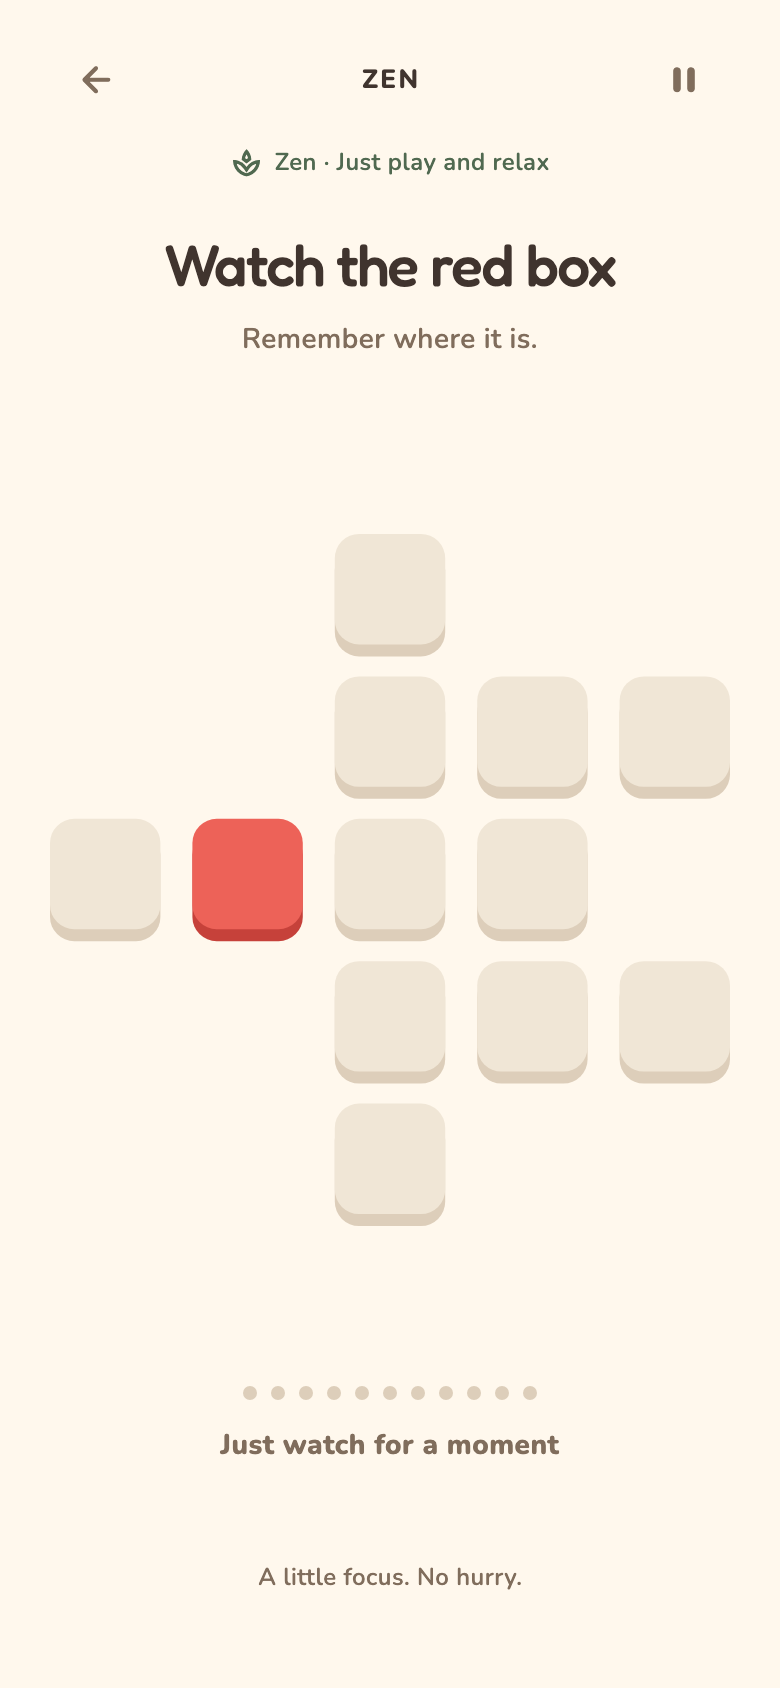
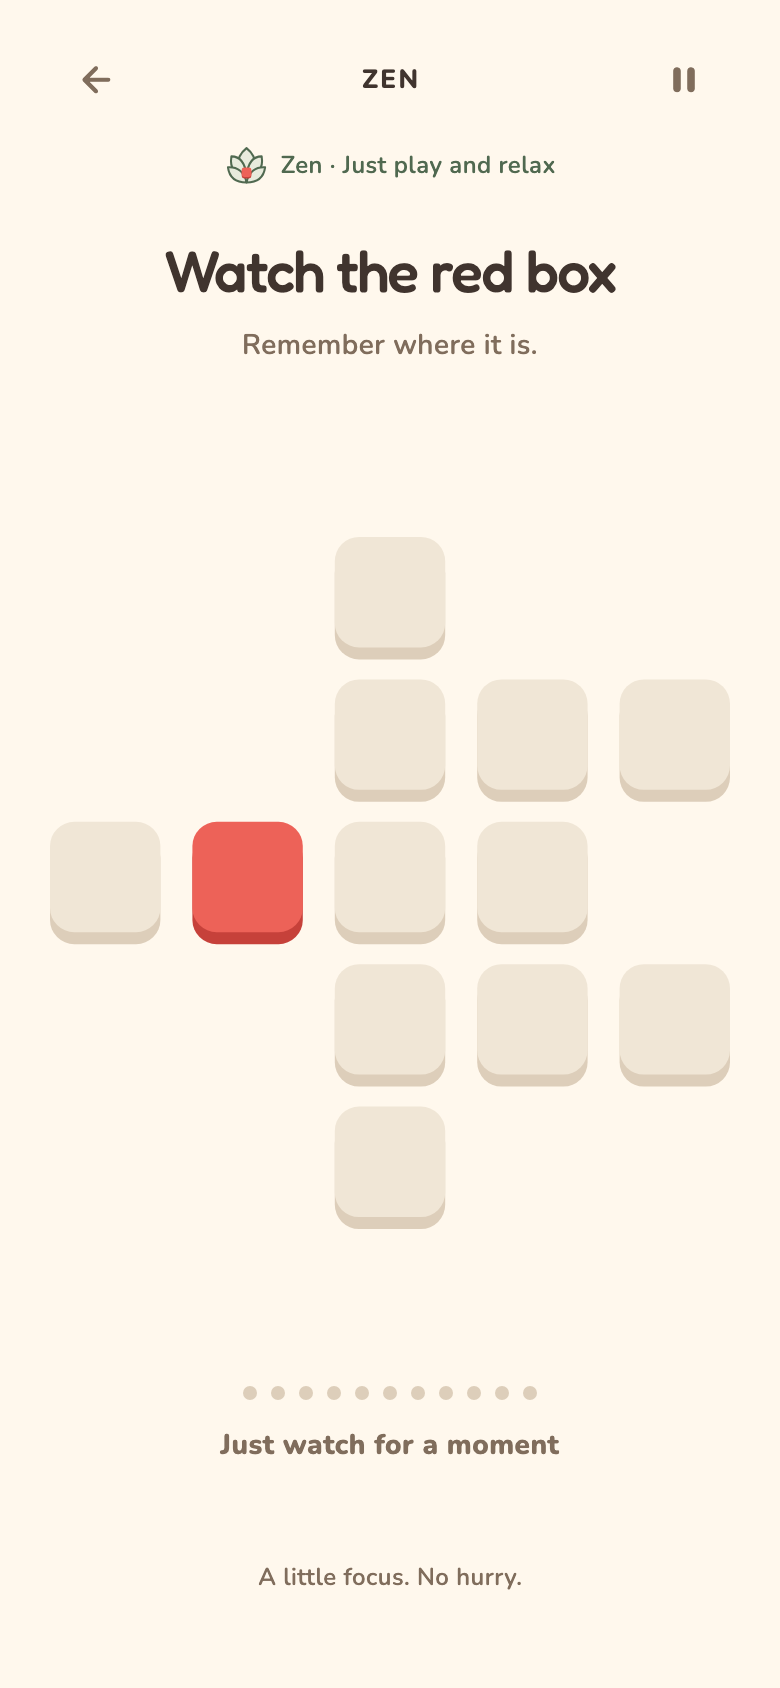
Brand the Zen mode action with a custom lotus mark

diff --git a/lib/ui/game_page.dart b/lib/ui/game_page.dart
@@ -11,6 +11,7 @@ import '../game/round.dart';
 import 'pocket_theme.dart';
 import 'help_and_settings.dart';
 import 'pocket_widgets.dart';
+import 'zen_mark.dart';
 
 class GamePage extends StatefulWidget {
   const GamePage({
@@ -181,7 +182,7 @@ class _GamePageState extends State<GamePage>
                   Navigator.pop(sheetContext);
                   _nextBoard();
                 },
-                icon: const Icon(Icons.spa_outlined),
+                icon: const ZenMark(size: 22),
                 label: const Text('New board'),
               ),
             const SizedBox(height: 13),
@@ -331,11 +332,7 @@ class _GamePageState extends State<GamePage>
               mainAxisSize: MainAxisSize.min,
               children: [
                 if (_mode == PlayMode.zen) ...[
-                  const Icon(
-                    Icons.spa_outlined,
-                    size: 16,
-                    color: PocketColors.zenInk,
-                  ),
+                  const ZenMark(size: 22),
                   const SizedBox(width: 6),
                 ],
                 Flexible(
@@ -615,13 +612,15 @@ class _GamePageState extends State<GamePage>
                             icon: const Icon(Icons.pause_rounded),
                           ),
                           if (!large)
-                            Text(
-                              _mode == PlayMode.zen
-                                  ? 'Zen'
-                                  : '${_game.round.level}',
-                              textAlign: TextAlign.center,
-                              style: PocketType.body.copyWith(fontSize: 12),
-                            ),
+                            _mode == PlayMode.zen
+                                ? const ZenMark(size: 24)
+                                : Text(
+                                    '${_game.round.level}',
+                                    textAlign: TextAlign.center,
+                                    style: PocketType.body.copyWith(
+                                      fontSize: 12,
+                                    ),
+                                  ),
                           Expanded(child: Center(child: info)),
                           if (result)
                             action(iconOnly: true)
@@ -658,15 +657,24 @@ class _GamePageState extends State<GamePage>
                             mainAxisAlignment: MainAxisAlignment.center,
                             children: [
                               if (!large)
-                                Text(
-                                  label.toUpperCase(),
-                                  style: PocketType.body.copyWith(
-                                    fontSize: 11,
-                                    letterSpacing: 1,
-                                  ),
+                                Row(
+                                  mainAxisSize: MainAxisSize.min,
+                                  children: [
+                                    if (_mode == PlayMode.zen) ...[
+                                      const ZenMark(size: 18),
+                                      const SizedBox(width: 5),
+                                    ],
+                                    Flexible(
+                                      child: Text(
+                                        label.toUpperCase(),
+                                        style: PocketType.body.copyWith(
+                                          fontSize: 11,
+                                          letterSpacing: 1,
+                                        ),
+                                      ),
+                                    ),
+                                  ],
                                 ),
-                              if (_mode == PlayMode.zen && !large)
-                                const SizedBox.shrink(),
                               Flexible(child: info),
                             ],
                           ),

diff --git a/lib/ui/zen_mark.dart b/lib/ui/zen_mark.dart
@@ -1,0 +1,95 @@
+import 'package:flutter/material.dart';
+
+import 'pocket_theme.dart';
+
+/// Red Box's Zen mark: five soft petals shelter a tiny coral square.
+/// Kept as vector geometry so the mark stays crisp at every device scale.
+class ZenMark extends StatelessWidget {
+  const ZenMark({super.key, this.size = 24});
+  final double size;
+
+  @override
+  Widget build(BuildContext context) => ExcludeSemantics(
+    child: SizedBox.square(
+      dimension: size,
+      child: const CustomPaint(painter: _ZenMarkPainter()),
+    ),
+  );
+}
+
+class _ZenMarkPainter extends CustomPainter {
+  const _ZenMarkPainter();
+
+  @override
+  void paint(Canvas canvas, Size size) {
+    canvas.save();
+    canvas.scale(size.width / 32, size.height / 32);
+    final fill = Paint()..color = PocketColors.zenSurface;
+    final outline = Paint()
+      ..color = PocketColors.zenInk
+      ..style = PaintingStyle.stroke
+      ..strokeWidth = 1.5
+      ..strokeCap = StrokeCap.round
+      ..strokeJoin = StrokeJoin.round;
+    void petal(Path path) {
+      canvas.drawPath(path, fill);
+      canvas.drawPath(path, outline);
+    }
+
+    petal(
+      Path()
+        ..moveTo(16, 3)
+        ..cubicTo(11, 7, 9.5, 11, 10.5, 15)
+        ..cubicTo(11.1, 18, 13.2, 20.6, 16, 22)
+        ..cubicTo(18.8, 20.6, 20.9, 18, 21.5, 15)
+        ..cubicTo(22.5, 11, 21, 7, 16, 3)
+        ..close(),
+    );
+    petal(
+      Path()
+        ..moveTo(5, 9)
+        ..cubicTo(11, 9, 15, 14, 16, 23)
+        ..cubicTo(8, 23, 3.5, 18, 5, 9)
+        ..close(),
+    );
+    petal(
+      Path()
+        ..moveTo(27, 9)
+        ..cubicTo(21, 9, 17, 14, 16, 23)
+        ..cubicTo(24, 23, 28.5, 18, 27, 9)
+        ..close(),
+    );
+    petal(
+      Path()
+        ..moveTo(2.5, 17)
+        ..cubicTo(9, 16.5, 14.5, 20, 16, 28)
+        ..cubicTo(8, 28, 3.5, 24.5, 2.5, 17)
+        ..close(),
+    );
+    petal(
+      Path()
+        ..moveTo(29.5, 17)
+        ..cubicTo(23, 16.5, 17.5, 20, 16, 28)
+        ..cubicTo(24, 28, 28.5, 24.5, 29.5, 17)
+        ..close(),
+    );
+    canvas.drawRRect(
+      RRect.fromRectAndRadius(
+        const Rect.fromLTWH(12.5, 18, 7, 7),
+        const Radius.circular(1.8),
+      ),
+      Paint()..color = PocketColors.redDepth,
+    );
+    canvas.drawRRect(
+      RRect.fromRectAndRadius(
+        const Rect.fromLTWH(12.5, 17, 7, 7),
+        const Radius.circular(1.8),
+      ),
+      Paint()..color = PocketColors.red,
+    );
+    canvas.restore();
+  }
+
+  @override
+  bool shouldRepaint(_ZenMarkPainter oldDelegate) => false;
+}

diff --git a/tools/capture_progression_test.dart b/tools/capture_progression_test.dart
@@ -12,6 +12,7 @@ import 'package:redbox/core/settings.dart';
 import 'package:redbox/game/round.dart';
 import 'package:redbox/ui/game_page.dart';
 import 'package:redbox/ui/pocket_widgets.dart';
+import 'package:redbox/ui/zen_mark.dart';
 
 import 'capture_screenshots_test.dart' as capture;
 
@@ -31,6 +32,29 @@ void main() {
     await (FontLoader(
       'MaterialIcons',
     )..addFont(rootBundle.load('fonts/MaterialIcons-Regular.otf'))).load();
+    final markFrame = GlobalKey();
+    await t.pumpWidget(
+      Directionality(
+        textDirection: TextDirection.ltr,
+        child: Center(
+          child: RepaintBoundary(
+            key: markFrame,
+            child: const ZenMark(size: 256),
+          ),
+        ),
+      ),
+    );
+    await t.pump();
+    final markBoundary =
+        markFrame.currentContext!.findRenderObject() as RenderRepaintBoundary;
+    await t.runAsync(() async {
+      final image = await markBoundary.toImage(pixelRatio: 2);
+      final bytes = await image.toByteData(format: ui.ImageByteFormat.png);
+      await File('design/zen-mode.png')
+          .writeAsBytes(bytes!.buffer.asUint8List());
+      image.dispose();
+    });
+    await t.pumpWidget(const SizedBox());
     final settings = AppSettings(store: MemorySettingsStore())
       ..haptics = false
       ..reducedMotion = true;

diff --git a/lib/ui/pocket_widgets.dart b/lib/ui/pocket_widgets.dart
@@ -76,11 +76,13 @@ class PocketButton extends StatefulWidget {
     required this.label,
     required this.onPressed,
     this.icon,
+    this.leading,
     this.secondary = false,
   });
   final String label;
   final VoidCallback? onPressed;
   final IconData? icon;
+  final Widget? leading;
   final bool secondary;
   @override
   State<PocketButton> createState() => _PocketButtonState();
@@ -144,6 +146,10 @@ class _PocketButtonState extends State<PocketButton> {
                 child: Row(
                   mainAxisAlignment: MainAxisAlignment.center,
                   children: [
+                    if (widget.leading != null) ...[
+                      widget.leading!,
+                      const SizedBox(width: 10),
+                    ],
                     Flexible(
                       child: Text(widget.label, textAlign: TextAlign.center),
                     ),

diff --git a/lib/ui/home_page.dart b/lib/ui/home_page.dart
@@ -12,6 +12,7 @@ import 'help_and_settings.dart';
 import 'levels_page.dart';
 import 'pocket_theme.dart';
 import 'pocket_widgets.dart';
+import 'zen_mark.dart';
 
 class HomePage extends StatelessWidget {
   const HomePage({
@@ -160,8 +161,8 @@ class HomePage extends StatelessWidget {
             const SizedBox(height: 12),
             PocketButton(
               key: const ValueKey('play-zen'),
-              label: 'Play Zen',
-              icon: Icons.spa_outlined,
+              label: 'Zen mode',
+              leading: const ZenMark(size: 28),
               secondary: true,
               onPressed: () => _play(context, PlayMode.zen),
             ),

diff --git a/lib/ui/help_and_settings.dart b/lib/ui/help_and_settings.dart
@@ -33,7 +33,7 @@ Future<void> showHowToPlay(BuildContext context) => showModalBottomSheet<void>(
       const Text(
         'Normal adds more boxes, shorter previews, and visible shuffles. '
         'Follow the boxes that glowed as they move. Zen offers random, easy '
-        'shaped boards, with no levels or shuffles. Choose Play Zen below Continue.',
+        'shaped boards, with no levels or shuffles. Choose Zen mode below Continue.',
         style: PocketType.body,
       ),
       const SizedBox(height: 18),

diff --git a/test/widget_test.dart b/test/widget_test.dart
@@ -111,7 +111,7 @@ void main() {
         t.getRect(find.byKey(const ValueKey('browse-levels'))).top,
         greaterThanOrEqualTo(t.getRect(find.byTooltip('Settings')).bottom),
       );
-      expect(find.text('Play Zen'), findsOneWidget);
+      expect(find.text('Zen mode'), findsOneWidget);
       expect(t.takeException(), isNull);
       await t.pumpWidget(const SizedBox());
       s.dispose();

diff --git a/docs/plans/progression-redesign.md b/docs/plans/progression-redesign.md
@@ -31,11 +31,11 @@ makes those two ladders easy to confuse.
 1. **Normal is the numbered game.** Continue resumes its unlocked level. Its
    remembered-red count rises through the long-term curve. Replaying a level
    keeps its board and rules; the red positions are fresh.
-2. **Zen has no levels.** Play Zen starts an easy random board. Another board
+2. **Zen has no levels.** Zen mode starts an easy random board. Another board
    starts another. No numbered ladder, unlocked levels, chapter labels or saved
    Zen level is shown. There is no Zen on/off setting.
 3. **Home gives both activities direct entry.** Primary Continue (Let's play on
-   a new install), then a secondary lotus action labelled **Play Zen**. Settings
+   a new install), then a secondary lotus action labelled **Zen mode**. Settings
    stays at the upper right; a small **Levels** icon sits directly beneath it.
    Remove the header's Zen icon and the large Levels button below Continue.
 4. **Levels always means Normal levels.** Return to clear numbered buttons with
@@ -54,7 +54,7 @@ Red Box                                      Settings
                   Pocket toy hero
 
                  Continue · Level N
-                 [lotus] Play Zen
+                 [lotus] Zen mode
                     How to play
 ```
 
@@ -165,7 +165,7 @@ quicker reading. The next memory increase is nineteen reds at 1,500.
 
 ## Zen, without a ladder
 
-- Play Zen starts immediately, with an explicit Zen label and lotus.
+- Zen mode starts immediately, with an explicit Zen label and lotus.
 - Choose a fresh, connected 6–16-box silhouette independently each round. Favor
   6–12 boxes; larger silhouettes are occasional tapping treats, not milestones.
 - One red most of the time; occasionally two on boards of ten or more. Cap at
@@ -187,7 +187,7 @@ quicker reading. The next memory increase is nineteen reds at 1,500.
 | Raising reds, speed and shuffle count at the same milestone creates abrupt difficulty jumps. | Separate red-count and swap-count schedules; movement speed has its own spaced milestones. |
 | The earlier 14-tap cap keeps boards small even at four-digit levels. | Allow boards up to 40 and safe taps up to 23; raise red density rather than filling late boards with easy tapping. |
 | Too many sequential swaps turn the game into waiting. | Limit movement to four pairs, rather than growing it alongside every red-count increase. |
-| Zen with levels and a Settings toggle looks like a second campaign. | A direct Play Zen action, no ladder, random independent boards and no mode setting. |
+| Zen with levels and a Settings toggle looks like a second campaign. | A direct Zen mode action, no ladder, random independent boards and no mode setting. |
 | Shape previews crowd an infrequently visited screen and add UI the player did not request. | Numbered level buttons, state icons and useful chapter copy only. |
 
 ## Critique pass 2 — feasibility and edge cases

diff --git a/README.md b/README.md
@@ -36,7 +36,7 @@ Red Box is a warm, tactile memory game with two ways to play: **Normal** builds 
 - **Normal:** a numbered memory challenge, starting with four boxes and one red. Red counts grow to 12 at level 500, 18 at level 1,300 and 20 at level 2,000. Larger boards reach 40 squares. Viewing time follows memory load; visible shuffles begin at 50 and grow to four pairs.
 - **Zen:** random, easy shaped boards with no levels. Enjoy petals, leaves, ribbons, arches and other connected silhouettes—never a plain filled square or rectangle. Remember one red, occasionally two; there are no shuffles or speed increases.
 
-The primary **Continue** action resumes Normal. **Play Zen** sits directly underneath. The **Levels** icon is below Settings and always opens Normal's numbered levels, with no shape previews. Each Normal level keeps its seeded shape while retries choose fresh reds. Zen's **Another board** starts a new random silhouette; **Another look** gently replays a mistaken board.
+The primary **Continue** action resumes Normal. **Zen mode** sits directly underneath. Its custom lotus-and-box mark is available as [SVG](design/zen-mode.svg) and [PNG](design/zen-mode.png). The **Levels** icon is below Settings and always opens Normal's numbered levels, with no shape previews. Each Normal level keeps its seeded shape while retries choose fresh reds. Zen's **Another board** starts a new random silhouette; **Another look** gently replays a mistaken board.
 
 Existing Normal unlocks and audio/comfort preferences survive updates. Old v1/Zen counters are retained only as archived migration data and never promote a casual player into a high Normal level. Reduced motion disables swaps; Extra time extends previews. Neither mode has a countdown while tapping.
 

diff --git a/DESIGN.md b/DESIGN.md
@@ -59,7 +59,7 @@ Bundle original, quiet WAV cues for taps, continuing, completion, and mistakes. 
 
 ## Normal and Zen
 
-Home keeps Normal's primary Continue action, then a secondary **Play Zen** action
+Home keeps Normal's primary Continue action, then a secondary **Zen mode** action
 with a sage lotus. Settings stays at the upper right; a Levels icon sits directly
 below it. There is no header Zen shortcut, mode selector or Zen Settings toggle.
 Levels is a Normal-only numbered browser without shape previews or per-cell
@@ -88,3 +88,14 @@ identities in the new fitted variant. Reduced motion disables shuffles.
 
 Maintain separate Normal progression and temporary Zen sessions. Keep saved
 Normal unlocks and comfort preferences; old Zen counters are inert migration data.
+
+
+## Zen mode mark
+
+Use the custom five-petal sage lotus sheltering a coral square, with rounded
+strokes and a tiny tile underside. The Home action is labelled **Zen mode** and
+places this 28px mark before the label. Reuse it in Zen's mode badge, compact
+header and New board pause action. Keep it decorative beside an accessible text
+label; do not add duplicate screen-reader announcements. Flutter draws the mark
+as vector paths, without an icon-font or raster dependency. The matching SVG
+source and PNG export live at `design/zen-mode.svg` and `design/zen-mode.png`.

diff --git a/product.md b/product.md
@@ -24,7 +24,7 @@ sets and varied seeded layouts. No lives, score, input timer or paywall.
 
 ## Zen
 
-Play Zen starts an independent, random easy board. Zen has no level numbers,
+Zen mode starts an independent, random easy board. Zen has no level numbers,
 chapters, progression, score or Settings toggle. Its curated shuffled shape deck
 contains connected petals, leaves, rings, ribbons, wings, arches and similar
 silhouettes. Solid rectangular and square boards are excluded. Families do not
@@ -38,7 +38,7 @@ available in pause. Random Zen play never changes Normal progress.
 
 ## Navigation and appearance
 
-Home: primary Continue (Let's play for a new player), then Play Zen. Settings is
+Home: primary Continue (Let's play for a new player), then Zen mode. Settings is
 at the top right, with the less prominent Levels icon directly below. The level
 browser is Normal-only: chapter guidance and numbered completed/current/locked
 buttons, with no pattern thumbnails or per-cell red counts. A level picker can

diff --git a/CHANGELOG.md b/CHANGELOG.md
@@ -11,7 +11,9 @@
 
 ### Changed
 
-- Place Play Zen beneath Continue and Levels beneath Settings. Remove mode switches and pattern previews in the Normal-only level browser.
+- Place Zen mode beneath Continue and Levels beneath Settings. Remove mode switches and pattern previews in the Normal-only level browser.
 - Use fitted dense-board layouts and landscape side controls while retaining visible 48px square targets, large-text support and replay after rotation.
 - Preserve Normal unlocks and preferences; archive old Zen counters without using them as Normal progression.
 - Keep both moving tiles visible at board edges. Reduced motion disables swaps; Extra time extends the memory preview.
+
+- Rename the Home action to Zen mode and use a custom sage lotus with a coral box across its button, badges and pause action.
